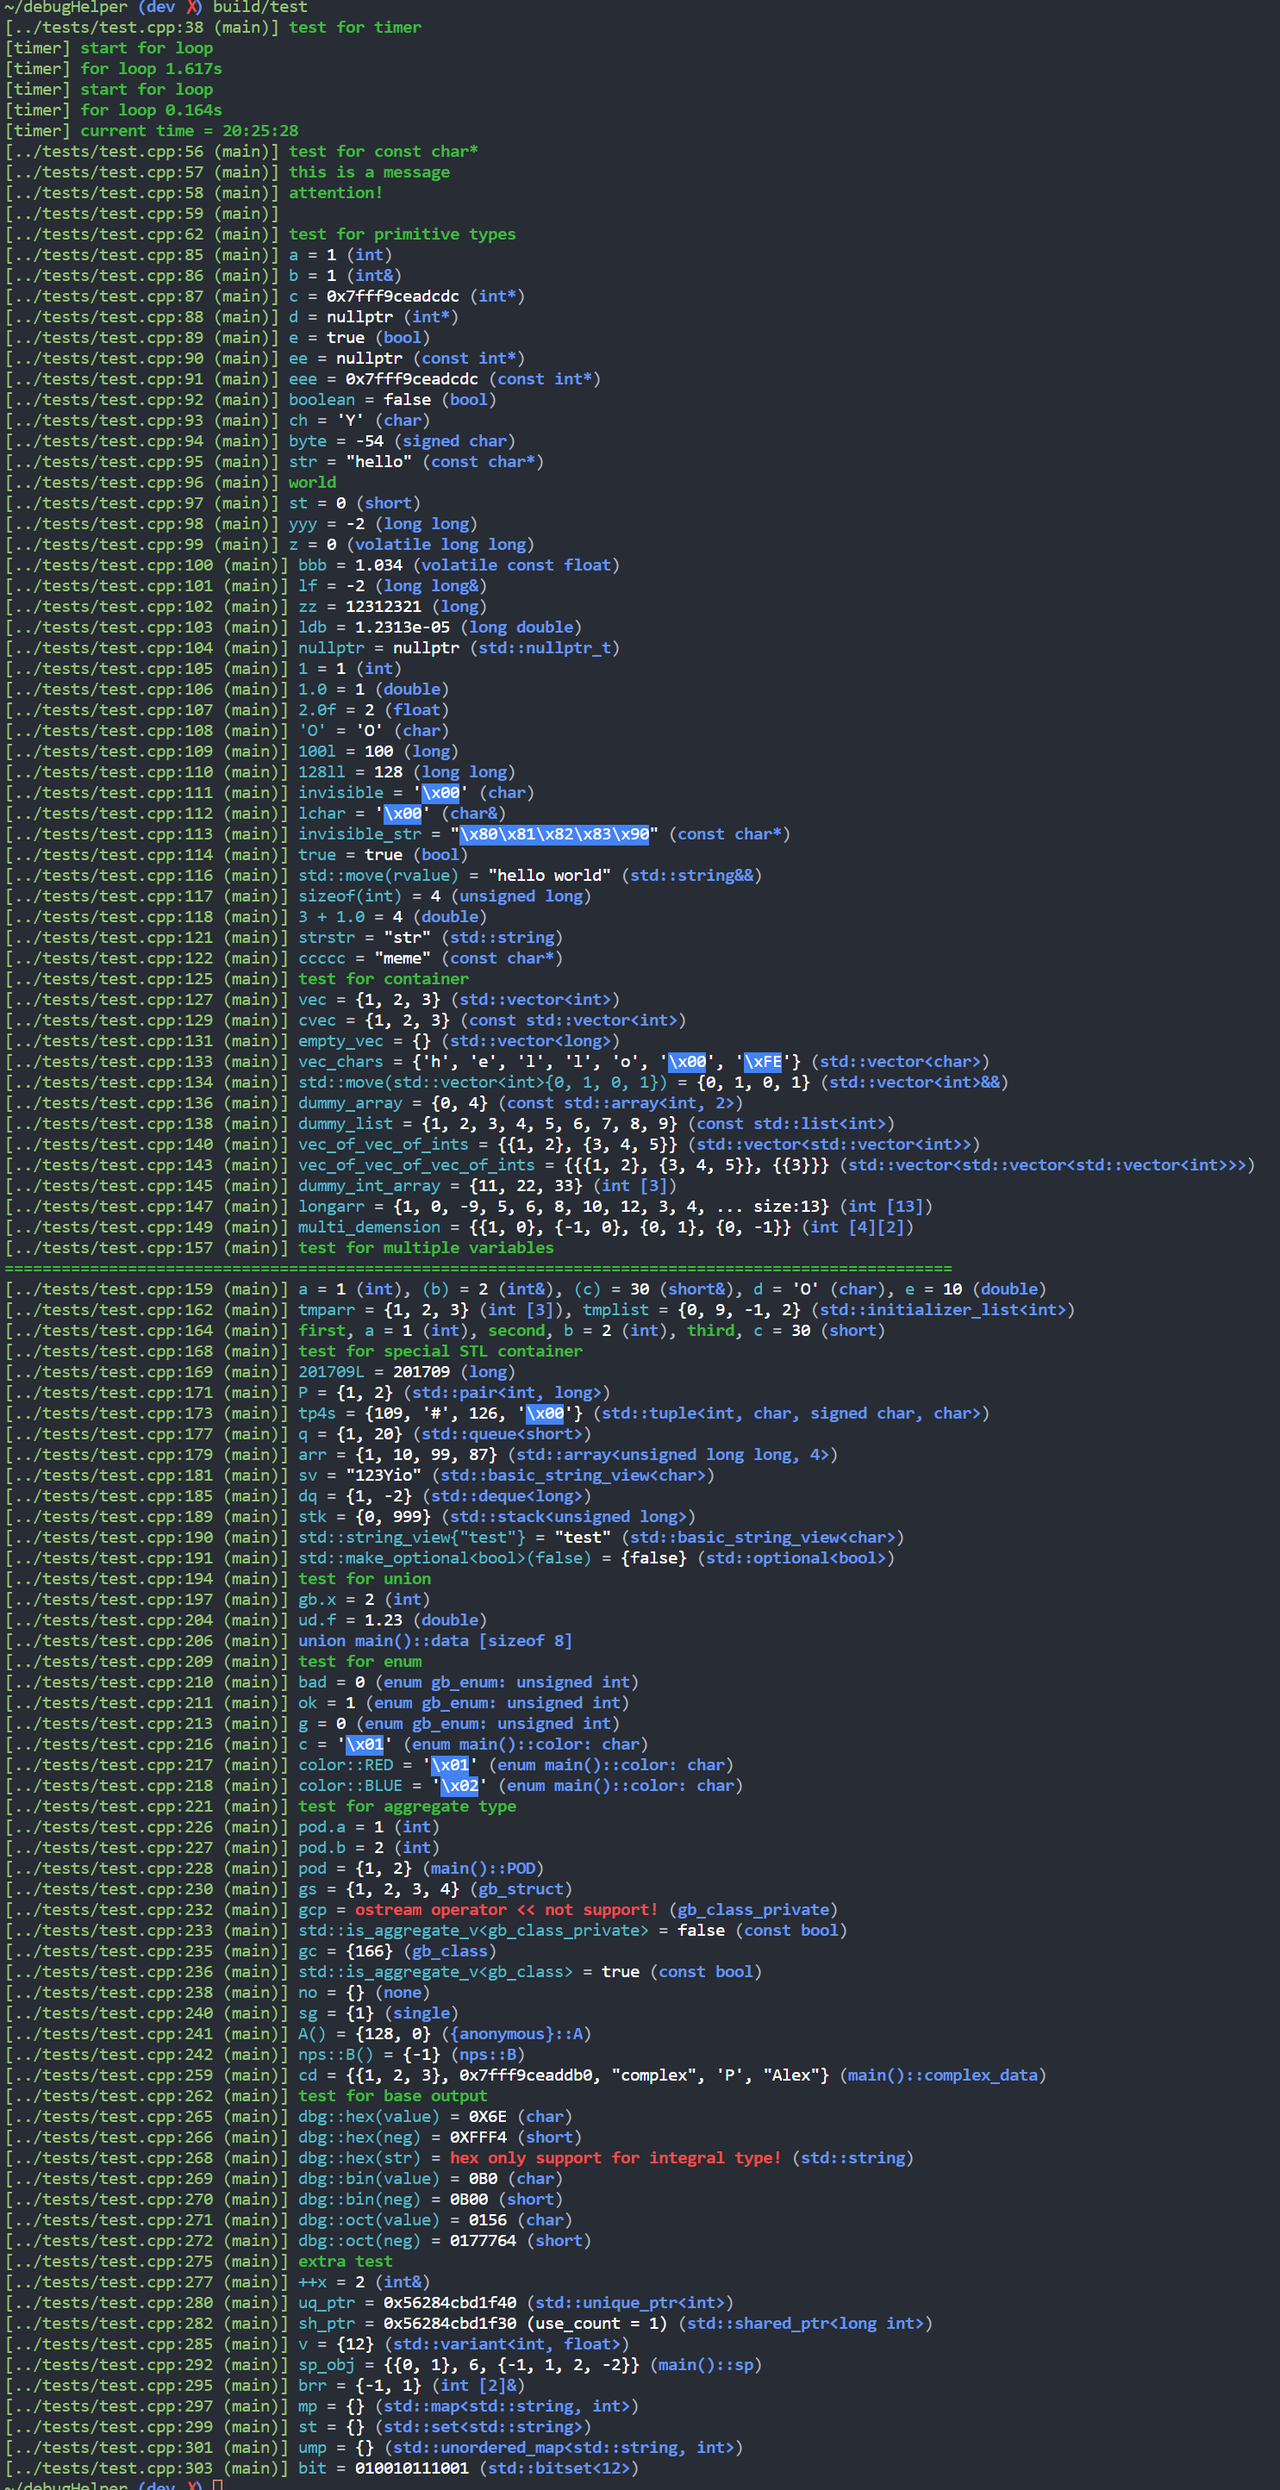
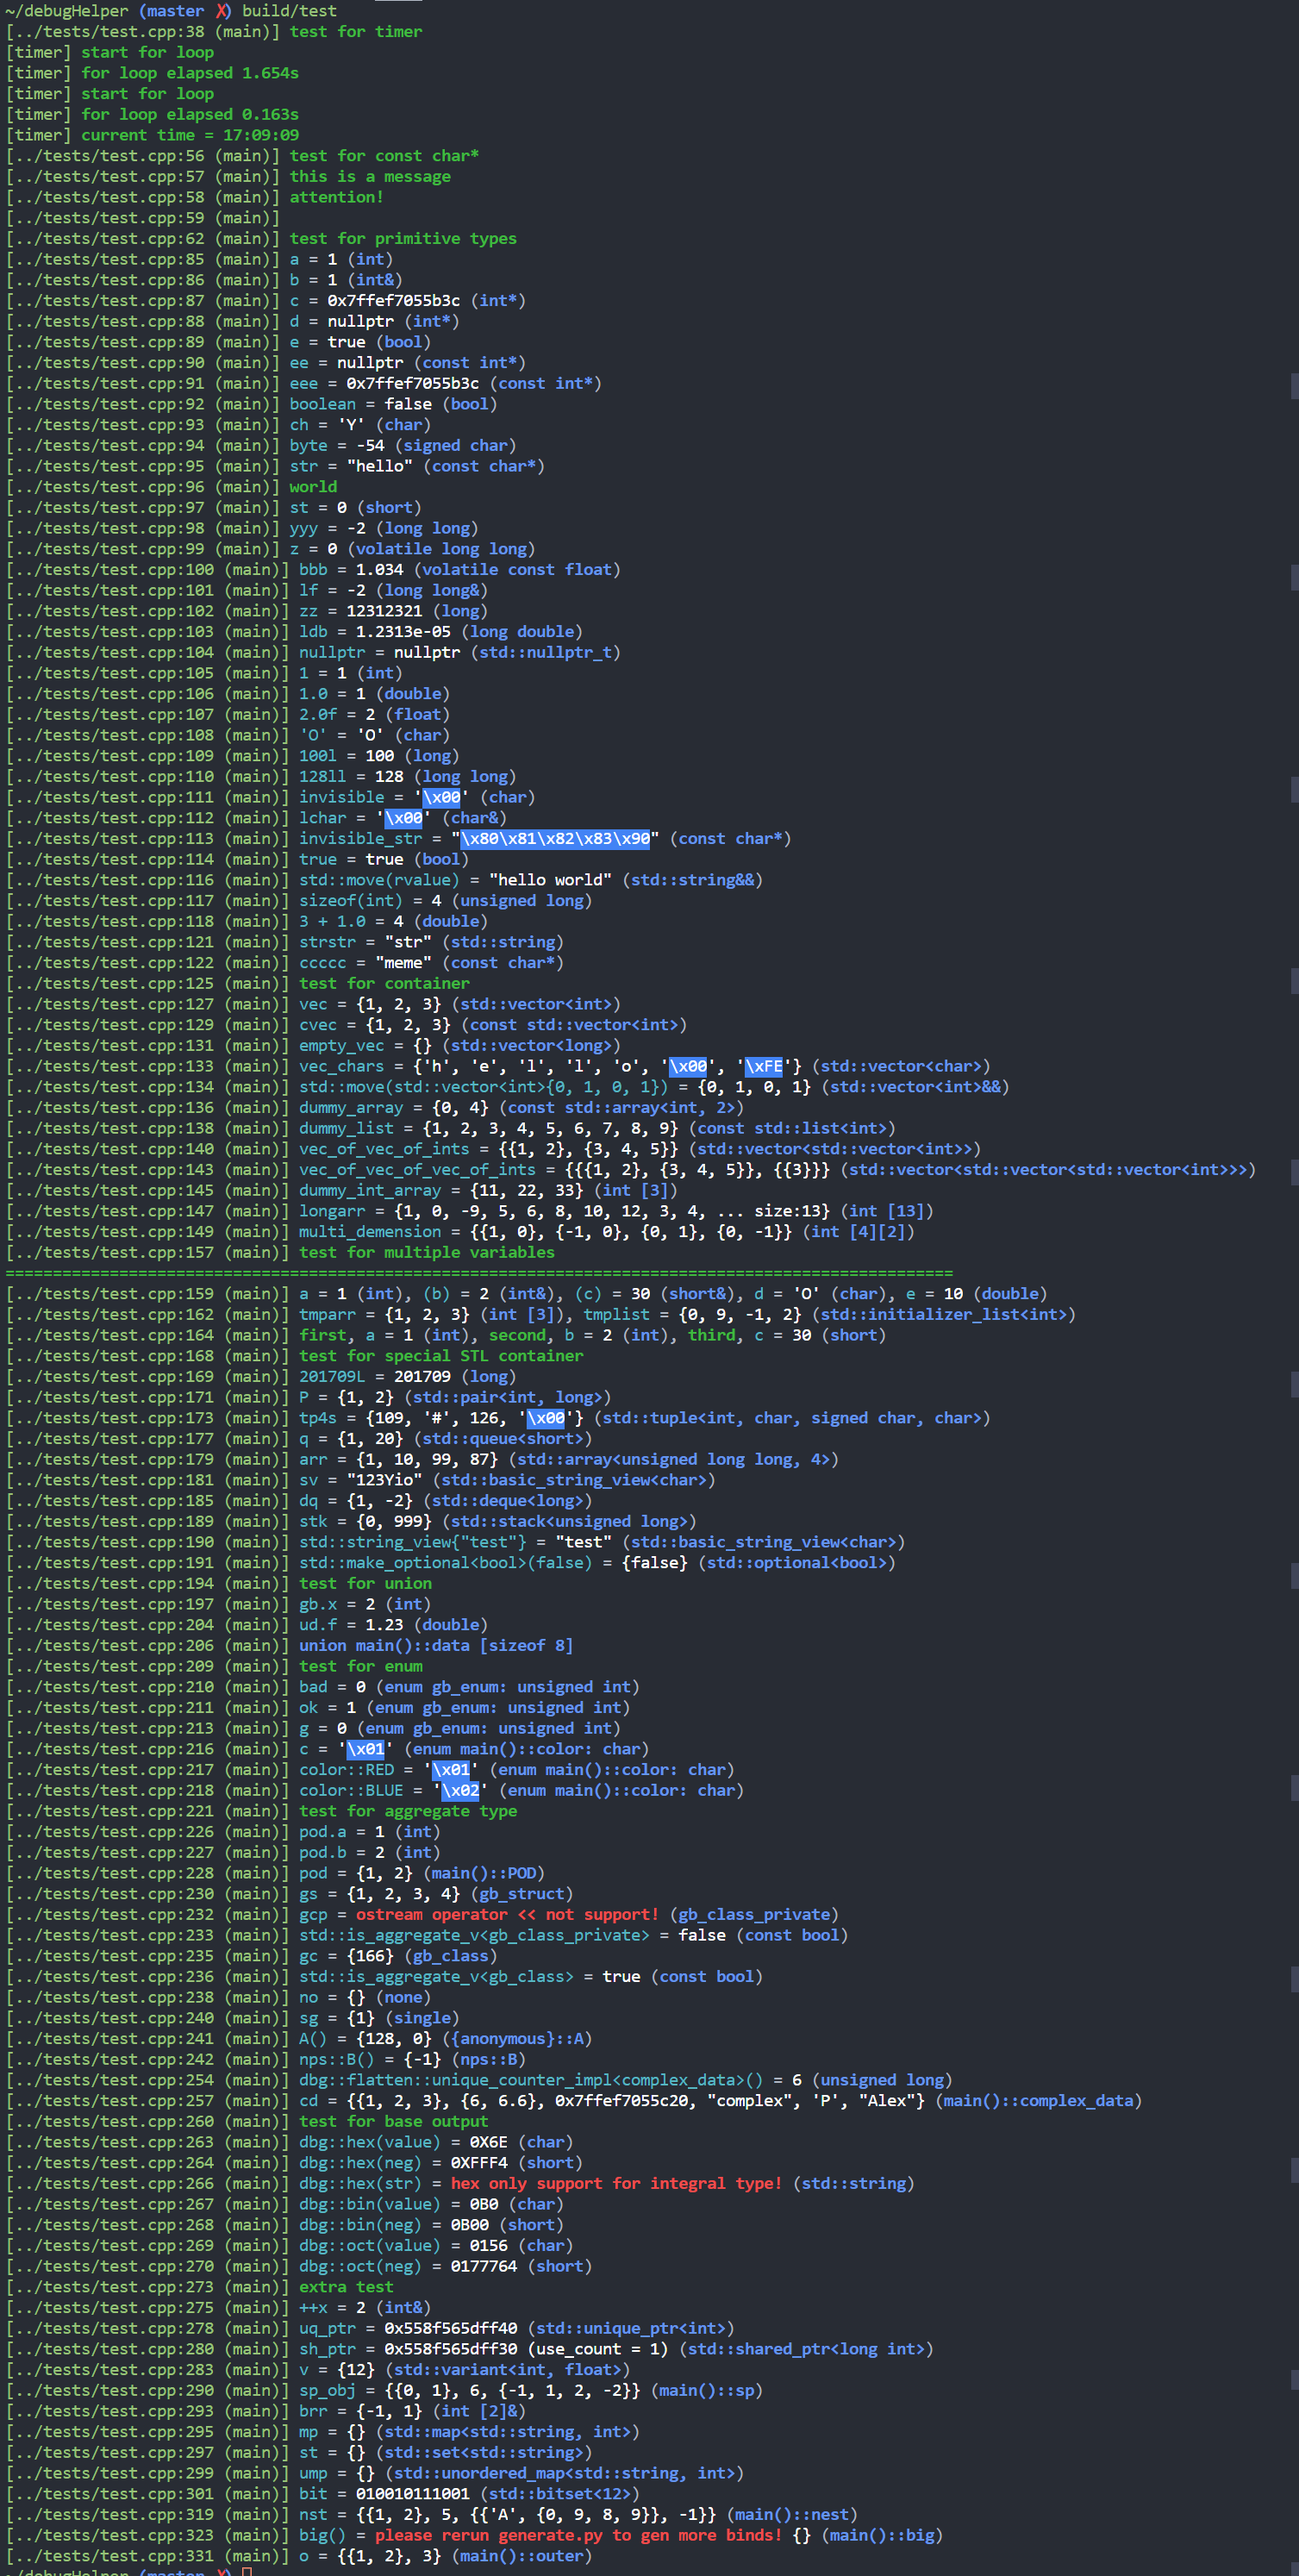
update readme

diff --git a/debug.hpp b/debug.hpp
@@ -126,11 +126,64 @@ inline void set_back_color(const std::string& color) {
   get_back_color() = color;
 }
 }  // namespace config
+
 namespace helper {
 inline std::ostream& get_stream() {
   return (config::get_os() == nullptr ? std::cerr : *config::get_os());
 }
 }  // namespace helper
+
+namespace printer {
+inline std::string location_print(const std::string& s) {
+  if (config::get_colorized_out())
+    return config::get_location_color() + s + config::get_reset_color();
+  else
+    return s;
+}
+inline std::string expression_print(const std::string& s) {
+  if (config::get_colorized_out())
+    return config::get_expression_color() + s + config::get_reset_color();
+  else
+    return s;
+}
+inline std::string value_print(const std::string& s) {
+  if (config::get_colorized_out()) {
+    const auto pos = s.find(config::get_reset_color());
+    if (pos == std::string::npos)
+      return config::get_value_color() + s + config::get_reset_color();
+    else
+      return config::get_value_color() + s.substr(0, pos) +
+             config::get_reset_color() + config::get_value_color() +
+             value_print(s.substr(pos + config::get_reset_color().size()));
+  } else {
+    return s;
+  }
+}
+inline std::string type_print(const std::string& s) {
+  if (config::get_colorized_out())
+    return config::get_type_color() + s + config::get_reset_color();
+  else
+    return s;
+}
+inline std::string message_print(const std::string& s) {
+  if (config::get_colorized_out())
+    return config::get_message_color() + s + config::get_reset_color();
+  else
+    return s;
+}
+inline std::string error_print(const std::string& s) {
+  if (config::get_colorized_out())
+    return config::get_error_color() + s + config::get_reset_color();
+  else
+    return s;
+}
+inline std::string invisible_print(const std::string& s) {
+  if (config::get_colorized_out())
+    return config::get_back_color() + s + config::get_reset_color();
+  else
+    return s;
+}
+} // namespace printer
 
 template <typename T>
 struct hex {
@@ -479,9 +532,6 @@ constexpr std::size_t specific_counter_impl() noexcept {
       std::make_index_sequence<sizeof(T) + 1>{});  // ! notice + 1
 }
 
-template <std::size_t N, std::size_t Max>
-constexpr auto field_step = N > Max ? 1 : N;
-
 template <typename T, std::size_t cur_field, std::size_t total_fields>
 constexpr std::size_t unique_fields_count(std::size_t unique_fields) noexcept {
   if constexpr (cur_field == total_fields) {
@@ -492,10 +542,8 @@ constexpr std::size_t unique_fields_count(std::size_t unique_fields) noexcept {
                                                                1);
   } else {
     return unique_fields_count<
-        T,
-        cur_field +
-            field_step<specific_counter_impl<T, cur_field>(), total_fields>,
-        total_fields>(unique_fields + 1);
+        T, cur_field + specific_counter_impl<T, cur_field>(), total_fields>(
+        unique_fields + 1);
   }
 }
 
@@ -614,6 +662,11 @@ constexpr auto flatten_impl(
                                f12, f13, f14, f15, f16);
 }
 // end auto generate code
+template <typename T, std::size_t N>
+constexpr auto flatten_impl(const T& t, std::integral_constant<std::size_t, N> N1) noexcept {
+  helper::get_stream() << printer::error_print("please rerun generate.py to gen more binds! ");
+  return std::forward_as_tuple();
+}
 
 template <typename T>
 constexpr auto flatten_to_tuple(const T& t) noexcept {
@@ -623,56 +676,6 @@ constexpr auto flatten_to_tuple(const T& t) noexcept {
 }  // namespace flatten
 
 namespace printer {
-inline std::string location_print(const std::string& s) {
-  if (config::get_colorized_out())
-    return config::get_location_color() + s + config::get_reset_color();
-  else
-    return s;
-}
-inline std::string expression_print(const std::string& s) {
-  if (config::get_colorized_out())
-    return config::get_expression_color() + s + config::get_reset_color();
-  else
-    return s;
-}
-inline std::string value_print(const std::string& s) {
-  if (config::get_colorized_out()) {
-    const auto pos = s.find(config::get_reset_color());
-    if (pos == std::string::npos)
-      return config::get_value_color() + s + config::get_reset_color();
-    else
-      return config::get_value_color() + s.substr(0, pos) +
-             config::get_reset_color() + config::get_value_color() +
-             value_print(s.substr(pos + config::get_reset_color().size()));
-  } else {
-    return s;
-  }
-}
-inline std::string type_print(const std::string& s) {
-  if (config::get_colorized_out())
-    return config::get_type_color() + s + config::get_reset_color();
-  else
-    return s;
-}
-inline std::string message_print(const std::string& s) {
-  if (config::get_colorized_out())
-    return config::get_message_color() + s + config::get_reset_color();
-  else
-    return s;
-}
-inline std::string error_print(const std::string& s) {
-  if (config::get_colorized_out())
-    return config::get_error_color() + s + config::get_reset_color();
-  else
-    return s;
-}
-inline std::string invisible_print(const std::string& s) {
-  if (config::get_colorized_out())
-    return config::get_back_color() + s + config::get_reset_color();
-  else
-    return s;
-}
-
 inline void print_char(std::ostream& os, const char& value) {
   if (value >= 0x20 && value <= 0x7E) {
     os << value;

diff --git a/tests/test.cpp b/tests/test.cpp
@@ -317,6 +317,18 @@ int main() {
     };
     nest nst{{1, 2}, 5};
     dbg(nst);
+    struct big {
+      int a, b, c, d, e, f, g, h, i, j, k, l, m, n, o, p, q;
+    };
+    dbg(big());
+    struct outer {
+      struct inner {
+        int a, b;
+      } in;
+      int c;
+    };
+    outer o = {{1, 2}, 3};
+    dbg(o);
   }
   return 0;
 }

diff --git a/tests/demo.cpp b/tests/demo.cpp
@@ -3,6 +3,10 @@ struct data {
   int a, b, c;
   std::string d;
   int arr[3];
+  struct dir {
+    int d[4] = {1, -1, 2, -2};
+  };
+  dir dr;
 };
 int main() {
   int a = 2;

diff --git a/README.md b/README.md
@@ -16,6 +16,10 @@ struct data {
   int a, b, c;
   std::string d;
   int arr[3];
+  struct dir {
+    int d[4] = {1, -1, 2, -2};
+  };
+  dir dr;
 };
 int main() {
   int a = 2;
@@ -48,12 +52,13 @@ int main() {
 + [x] 2进制、8进制、16进制输出整数
 + [x] 对于不可打印字符(<0x20||>0x7f)，用\x的十六进制转移+蓝色背景颜色显示（包括字符串中的不可见字符）
 #### TODO
-1. for_each field?(may be)
-2. more tests
-3. may be combine with json
+1. use catch2 for unit test
+2. for_each field?(may be)
+3. more tests
+4. may be combine with json
 
 #### weakness
-1. 为了显示传入的语句，并且更好的输出类型，只能使用宏，而多参数需要借助FOR_EACH_MACRO，容易导致报错信息过多（与宏展开有关）。多参数宏为了解决空参数问题，使用了__VA_OPT__，所以至少需要-std=c++2a。可以通过-DSINGLE指明使用单参数，此时需要-std=c++17，但是不支持空参数。
+1. 为了显示传入的语句，并且获得未退化的类型，只能使用宏，而多参数需要借助FOR_EACH_MACRO，容易导致报错信息过多（与宏展开有关）。多参数宏为了解决空参数问题，使用了__VA_OPT__，所以至少需要-std=c++2a。可以通过-DSINGLE指明使用单参数，此时需要-std=c++17，但是不支持空参数。
 2. 由于使用了宏，不支持直接传入初始化列表形式
 ```cpp
 // not support!
@@ -62,15 +67,6 @@ dbg({1, 3, 4}); dbg(data{1, 2});
 3. 只支持unix。windows的colorize接口不一样
 4. 测试
 5. 在自动序列化聚合类型时，会生成大量模板（正比于sizeof(T)），所以如果聚合类型的大小很大，可能会导致编译速度极慢
-6. 为了支持聚合类型内数组成员的正确序列化，目前嵌套结构体就会出问题。如下结构体outer，只会计算出1个域，此时结构化绑定就出问题了。
-```cpp
-struct outer {
-  struct inner {
-    int a, b;
-  } in;
-  int c;
-};
-```
 #### thanks for
 + [magic-get](https://www.youtube.com/watch?v=abdeAew3gmQ) <https://github.com/boostorg/pfr>
 + dbg-macro <https://github.com/sharkdp/dbg-macro>
